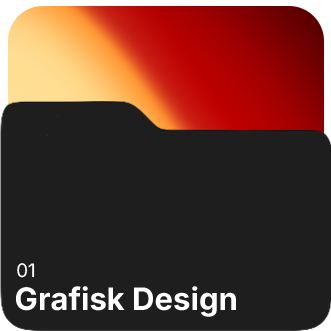
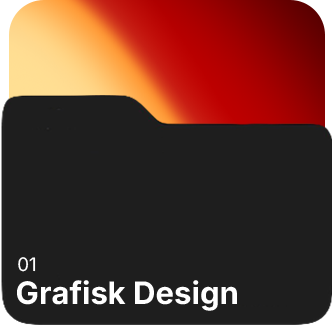
Om meg refinements, folder alignment, bigger mobile hero button
Om meg:
- Add a Claude app icon (35%) and put all eight icons on one line at their
  original size; each badge now shrinks to fit, with everything inside sized
  in container units so the proportions hold on any screen.
- Scale the page down for more breathing room: headings 30->25px, body
  15->14px on a 470px measure, icons 62->54px, smaller CTA button, and the
  content is centred vertically instead of hugging the navbar.
- Tighten the spacing under each heading and between the text blocks.

Front page:
- Normalise the three ARBEID folder PNGs onto one 333x325 canvas (cropped to
  the artwork, bottom-aligned, centred). They had three different canvas
  sizes and different transparent padding, so the cards rendered at unequal
  heights and the row looked crooked. The cards also pin an aspect-ratio with
  object-fit: contain, so a future image cannot knock the row out of line.
- Hero button on phones is 80% of the desktop size instead of 60%.

diff --git a/om-meg.html b/om-meg.html
@@ -20,50 +20,46 @@
     <link rel="preconnect" href="https://fonts.googleapis.com">
     <link rel="preconnect" href="https://fonts.gstatic.com" crossorigin>
     <link href="https://fonts.googleapis.com/css2?family=Bebas+Neue&family=Inter:ital,wght@0,300;0,400;0,500;0,600;0,700;0,800;1,400&family=Playfair+Display:ital@1&display=swap" rel="stylesheet">
-    <link rel="stylesheet" href="style.css?v=41">
+    <link rel="stylesheet" href="style.css?v=44">
     <style>
         /* ── Om meg page ── */
         .om-page {
             min-height: 100vh;
-            padding-top: 102px; /* navbar height + ticker */
+            padding-top: 124px; /* navbar + ticker, plus breathing room */
+            padding-bottom: 56px;
             display: flex;
-            align-items: center; /* center content; no rigid 100vh lock */
+            /* Centred in whatever room is left, so the shorter content sits
+               balanced on the screen instead of hugging the navbar. */
+            align-items: center;
         }
 
         .om-grid {
             display: grid;
-            grid-template-columns: 1fr 420px;
-            gap: 60px;
+            grid-template-columns: 1fr 380px;
+            gap: 64px;
             width: 100%;
             max-width: var(--max-w);
             margin: 0 auto;
-            padding: 48px var(--pad-x) 48px;
-            align-items: center;
+            padding: 0 var(--pad-x);
+            align-items: start;
         }
 
         /* ── Left: text content ── */
         .om-left {
             display: flex;
             flex-direction: column;
-            gap: 36px;
-        }
-
-        /* Nudge the text up a bit on desktop */
-        @media (min-width: 861px) {
-            .om-left {
-                transform: translateY(-50px);
-            }
+            gap: 28px;
         }
 
         .om-section {}
 
         .om-heading {
             font-family: var(--font-body);
-            font-size: 30px;
+            font-size: 25px;
             font-weight: 700;
-            line-height: 1.15;
+            line-height: 1.2;
             color: var(--white);
-            margin-bottom: 16px;
+            margin-bottom: 10px;
             letter-spacing: -0.02em;
         }
 
@@ -80,32 +76,31 @@
         }
 
         .om-body {
-            font-size: 15px;
-            line-height: 1.7;
+            font-size: 14px;
+            line-height: 1.75;
             color: rgba(255, 255, 255, 0.78);
-            max-width: 520px;
+            max-width: 470px;
         }
 
         /* ── Software badges ── */
+        /* All icons stay on ONE line at every width: each badge is a flex item
+           with a 62px basis that may shrink, and everything inside it is sized
+           in container units (cqw) so the proportions never change. */
         .software-row {
             display: flex;
-            flex-wrap: wrap;
-            gap: 10px;
-            margin-top: 20px;
-        }
-
-        /* Forces the row to wrap here, so Figma and Glyphs start a second row
-           at the left edge instead of trailing after the lettered icons. */
-        .sw-break {
-            flex-basis: 100%;
-            height: 0;
+            flex-wrap: nowrap;
+            column-gap: 1.5%;
+            margin-top: 8px;
         }
 
         .sw-badge {
+            flex: 0 1 54px;
+            min-width: 0;
+            container-type: inline-size;
             display: flex;
             flex-direction: column;
             align-items: center;
-            gap: 7px;
+            gap: 6px;
             /* The icons are buttons, not text: clicking or double-clicking one
                should press it, never select the letters inside. */
             user-select: none;
@@ -114,14 +109,15 @@
         }
 
         .sw-key {
-            width: 62px;
-            height: 62px;
-            border-radius: 15px;
+            width: 100%;
+            aspect-ratio: 1 / 1;
+            border-radius: 24%;
             background: var(--white);
             display: flex;
             align-items: center;
             justify-content: center;
-            font-size: 26px;
+            font-size: 23px;      /* fallback for browsers without cqw */
+            font-size: 42cqw;
             font-weight: 700;
             color: #111111;
             letter-spacing: 0.01em;
@@ -139,9 +135,10 @@
 
         /* Skill meter under each icon; the level is set per badge via --level */
         .sw-bar {
-            width: 62px;
-            height: 5px;
-            border-radius: 3px;
+            width: 100%;
+            height: 4px;
+            height: 8cqw;
+            border-radius: 999px;
             background: rgba(255, 255, 255, 0.22);
             overflow: hidden;
         }
@@ -151,16 +148,30 @@
             display: block;
             height: 100%;
             width: var(--level, 0%);
-            border-radius: 3px;
+            border-radius: 999px;
             background: var(--white);
         }
 
         /* Logo marks sit in the same white icon as the lettered ones */
         .sw-logo {
-            width: 32px;
-            height: 32px;
+            width: 28px;
+            height: 28px;
+            width: 52cqw;
+            height: 52cqw;
             display: block;
             fill: #111111;
+        }
+
+        /* ── Call to action ── */
+        .om-cta .btn-outline {
+            font-size: 15px;
+            padding: 13px 27px;
+            gap: 8px;
+        }
+
+        .om-cta .btn-arrow {
+            width: 16px;
+            height: 16px;
         }
 
         /* ── Right: portrait ── */
@@ -171,7 +182,7 @@
         .om-portrait {
             width: 100%;
             height: auto;
-            max-height: calc(100vh - 200px);
+            max-height: calc(100vh - 250px);
             object-fit: cover;
             object-position: center top;
             border-radius: 18px;
@@ -183,7 +194,7 @@
         @media (max-width: 860px) {
             .om-grid {
                 grid-template-columns: 1fr;
-                gap: 48px;
+                gap: 42px;
                 padding: 5px 24px 64px;
             }
 
@@ -192,48 +203,17 @@
             }
 
             .om-portrait {
-                max-height: 420px;
+                max-height: 380px;
                 width: 100%;
                 object-fit: cover;
                 object-position: center 20%;
             }
 
             .om-heading {
-                font-size: 26px;
+                font-size: 22px;
             }
         }
 
-        /* Phones: size the icons to a fifth of the row so the five Adobe apps
-           always fit on one line, whatever the screen width. */
-        @media (max-width: 600px) {
-            .software-row {
-                gap: 8px;
-            }
-
-            .sw-badge {
-                flex: 0 1 calc((100% - 32px) / 5);
-                max-width: 62px;
-                gap: 6px;
-            }
-
-            .sw-key {
-                width: 100%;
-                height: auto;
-                aspect-ratio: 1 / 1;
-                border-radius: 13px;
-                font-size: min(26px, calc(8.4vw - 6.7px));
-            }
-
-            .sw-bar {
-                width: 100%;
-                height: 4px;
-            }
-
-            .sw-logo {
-                width: 52%;
-                height: 52%;
-            }
-        }
     </style>
 </head>
 <body>
@@ -311,7 +291,6 @@
                             <div class="sw-key">Id</div>
                             <div class="sw-bar" style="--level: 30%"></div>
                         </div>
-                        <div class="sw-break"></div>
                         <div class="sw-badge">
                             <div class="sw-key" role="img" aria-label="Figma">
                                 <svg class="sw-logo" viewBox="0 0 38 57" xmlns="http://www.w3.org/2000/svg" aria-hidden="true">
@@ -333,6 +312,14 @@
                                 </svg>
                             </div>
                             <div class="sw-bar" style="--level: 30%"></div>
+                        </div>
+                        <div class="sw-badge">
+                            <div class="sw-key" role="img" aria-label="Claude">
+                                <svg class="sw-logo" viewBox="0 0 24 24" xmlns="http://www.w3.org/2000/svg" aria-hidden="true">
+                                    <path d="m4.7144 15.9555 4.7174-2.6471.079-.2307-.079-.1275h-.2307l-.7893-.0486-2.6956-.0729-2.3375-.0971-2.2646-.1214-.5707-.1215-.5343-.7042.0546-.3522.4797-.3218.686.0608 1.5179.1032 2.2767.1578 1.6514.0972 2.4468.255h.3886l.0546-.1579-.1336-.0971-.1032-.0972L6.973 9.8356l-2.55-1.6879-1.3356-.9714-.7225-.4918-.3643-.4614-.1578-1.0078.6557-.7225.8803.0607.2246.0607.8925.686 1.9064 1.4754 2.4893 1.8336.3643.3035.1457-.1032.0182-.0728-.164-.2733-1.3539-2.4467-1.445-2.4893-.6435-1.032-.17-.6194c-.0607-.255-.1032-.4674-.1032-.7285L6.287.1335 6.6997 0l.9957.1336.419.3642.6192 1.4147 1.0018 2.2282 1.5543 3.0296.4553.8985.2429.8318.091.255h.1579v-.1457l.1275-1.706.2368-2.0947.2307-2.6957.0789-.7589.3764-.9107.7468-.4918.5828.2793.4797.686-.0668.4433-.2853 1.8517-.5586 2.9021-.3643 1.9429h.2125l.2429-.2429.9835-1.3053 1.6514-2.0643.7286-.8196.85-.9046.5464-.4311h1.0321l.759 1.1293-.34 1.1657-1.0625 1.3478-.8804 1.1414-1.2628 1.7-.7893 1.36.0729.1093.1882-.0183 2.8535-.607 1.5421-.2794 1.8396-.3157.8318.3886.091.3946-.3278.8075-1.967.4857-2.3072.4614-3.4364.8136-.0425.0304.0486.0607 1.5482.1457.6618.0364h1.621l3.0175.2247.7892.522.4736.6376-.079.4857-1.2142.6193-1.6393-.3886-3.825-.9107-1.3113-.3279h-.1822v.1093l1.0929 1.0686 2.0035 1.8092 2.5075 2.3314.1275.5768-.3218.4554-.34-.0486-2.2039-1.6575-.85-.7468-1.9246-1.621h-.1275v.17l.4432.6496 2.3436 3.5214.1214 1.0807-.17.3521-.6071.2125-.6679-.1214-1.3721-1.9246L14.38 17.959l-1.1414-1.9428-.1397.079-.674 7.2552-.3156.3703-.7286.2793-.6071-.4614-.3218-.7468.3218-1.4753.3886-1.9246.3157-1.53.2853-1.9004.17-.6314-.0121-.0425-.1397.0182-1.4328 1.9672-2.1796 2.9446-1.7243 1.8456-.4128.164-.7164-.3704.0667-.6618.4008-.5889 2.386-3.0357 1.4389-1.882.929-1.0868-.0062-.1579h-.0546l-6.3385 4.1164-1.1293.1457-.4857-.4554.0608-.7467.2307-.2429 1.9064-1.3114Z"/>
+                                </svg>
+                            </div>
+                            <div class="sw-bar" style="--level: 35%"></div>
                         </div>
                     </div>
                 </div>

diff --git a/style.css b/style.css
@@ -473,6 +473,7 @@ a {
     grid-template-columns: repeat(3, 216px);
     gap: 32px;
     justify-content: center;
+    align-items: start;
 }
 
 .work-card {
@@ -489,9 +490,16 @@ a {
     box-shadow: 0 20px 48px rgba(0, 0, 0, 0.5);
 }
 
+/* The folder artwork all shares one canvas (333x325, content bottom-aligned),
+   so the row lines up exactly. The fixed aspect-ratio + contain is the safety
+   net: if a folder image is ever replaced by one with a different shape, the
+   cards keep identical heights instead of the row going crooked again. */
 .work-card img {
     width: 100%;
     height: auto;
+    aspect-ratio: 333 / 325;
+    object-fit: contain;
+    object-position: center bottom;
     display: block;
 }
 
@@ -1680,18 +1688,18 @@ a {
         display: flex;
     }
 
-    /* 40% smaller than on desktop: every dimension scaled by 0.6, so the
+    /* 20% smaller than on desktop: every dimension scaled by 0.8, so the
        proportions are unchanged (letter-spacing is in em and follows along).
        Hero only — other buttons keep their full size. */
     .hero .btn-outline {
-        font-size: 10.38px;
-        padding: 9px 19.2px;
-        gap: 6px;
+        font-size: 13.84px;
+        padding: 12px 25.6px;
+        gap: 8px;
     }
 
     .hero .btn-arrow {
-        width: 10.8px;
-        height: 10.8px;
+        width: 14.4px;
+        height: 14.4px;
     }
 
     /* Hjem reappears inside the hamburger menu */

diff --git a/arbeid.html b/arbeid.html
@@ -20,7 +20,7 @@
     <link rel="preconnect" href="https://fonts.googleapis.com">
     <link rel="preconnect" href="https://fonts.gstatic.com" crossorigin>
     <link href="https://fonts.googleapis.com/css2?family=Bebas+Neue&family=Inter:ital,wght@0,300;0,400;0,500;0,600;0,700;0,800;1,400&family=Playfair+Display:ital@1&display=swap" rel="stylesheet">
-    <link rel="stylesheet" href="style.css?v=41">
+    <link rel="stylesheet" href="style.css?v=44">
 </head>
 <body>
 

diff --git a/index.html b/index.html
@@ -20,7 +20,7 @@
     <link rel="preconnect" href="https://fonts.googleapis.com">
     <link rel="preconnect" href="https://fonts.gstatic.com" crossorigin>
     <link href="https://fonts.googleapis.com/css2?family=Bebas+Neue&family=Inter:ital,wght@0,300;0,400;0,500;0,600;0,700;0,800;1,400&family=Playfair+Display:ital@1&display=swap" rel="stylesheet">
-    <link rel="stylesheet" href="style.css?v=41">
+    <link rel="stylesheet" href="style.css?v=44">
 </head>
 <body>
 
